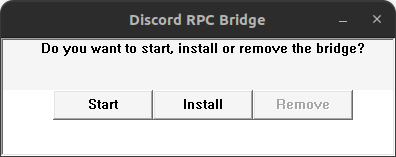
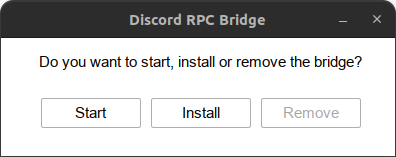
Enable Visual Styles

Changed region(s): [[0.0, 0.2293, 1.0, 0.9936], [0.0909, 0.5605, 0.9091, 0.7643], [0.0909, 0.7898, 0.9091, 0.8153]]

diff --git a/gui.c b/gui.c
@@ -36,8 +36,10 @@ VOID HandleStartButton(BOOL Silent)
 		RedrawWindow(item, NULL, NULL, RDW_ERASE | RDW_INVALIDATE | RDW_FRAME | RDW_ALLCHILDREN);
 
 		print("Killing %#x, %#lx and waiting for %#lx\n", hIn, hOut, hBridge);
-		TerminateThread(hIn, 0);
-		TerminateThread(hOut, 0);
+		if (hIn != NULL)
+			TerminateThread(hIn, 0);
+		if (hOut != NULL)
+			TerminateThread(hOut, 0);
 		WaitForSingleObject(hBridge, INFINITE);
 
 		EnableWindow(item, TRUE);
@@ -162,6 +164,12 @@ LRESULT CALLBACK WndProc(HWND hwnd, UINT msg, WPARAM wParam, LPARAM lParam)
 		PostQuitMessage(0);
 		ExitProcess(0);
 		break;
+	case WM_CTLCOLORSTATIC:
+	{
+		HDC hdcStatic = (HDC)wParam;
+		SetBkMode(hdcStatic, TRANSPARENT);
+		return (INT_PTR)(HBRUSH)GetStockObject(NULL_BRUSH);
+	}
 	default:
 		return DefWindowProc(hwnd, msg, wParam, lParam);
 	}
@@ -204,8 +212,8 @@ VOID SetButtonStyles(INT *btnStartStyle, INT *btnRemoveStyle, INT *btnInstallSty
 	CloseServiceHandle(hSCManager);
 }
 
-int WINAPI WinMain(HINSTANCE hInstance, HINSTANCE hPrevInstance,
-				   LPSTR lpCmdLine, int nCmdShow)
+int WINAPI __WinMain(HINSTANCE hInstance, HINSTANCE hPrevInstance,
+					 LPSTR lpCmdLine, int nCmdShow)
 {
 	INT btnStartStyle, btnRemoveStyle, btnInstallStyle;
 	SetButtonStyles(&btnStartStyle, &btnRemoveStyle, &btnInstallStyle);
@@ -228,7 +236,7 @@ int WINAPI WinMain(HINSTANCE hInstance, HINSTANCE hPrevInstance,
 
 	assert(RegisterClassEx(&wc));
 
-	hwnd = CreateWindowEx(WS_EX_CLIENTEDGE,
+	hwnd = CreateWindowEx(WS_EX_WINDOWEDGE,
 						  szClassName,
 						  "Discord RPC Bridge",
 						  WS_OVERLAPPEDWINDOW & ~WS_THICKFRAME,
@@ -237,25 +245,43 @@ int WINAPI WinMain(HINSTANCE hInstance, HINSTANCE hPrevInstance,
 						  400, 150,
 						  NULL, NULL, hInstance, NULL);
 
-	CreateWindow("STATIC", "Do you want to start, install or remove the bridge?",
-				 WS_CHILD | WS_VISIBLE | SS_CENTER,
-				 0, 0, 400, 50,
-				 hwnd, (HMENU)4, hInstance, NULL);
+	HICON hIcon = LoadIcon(hInstance, "IDI_ICON_128");
+	SendMessage(hwnd, WM_SETICON, ICON_BIG, (LPARAM)hIcon);
 
-	CreateWindow("BUTTON", "Start",
-				 btnStartStyle,
-				 50, 50, 100, 30,
-				 hwnd, (HMENU)1, hInstance, NULL);
+	HWND hLbl4 = CreateWindowEx(WS_EX_TRANSPARENT,
+								"STATIC", "Do you want to start, install or remove the bridge?",
+								WS_CHILD | WS_VISIBLE | SS_CENTER,
+								0, 15, 400, 25,
+								hwnd, (HMENU)4, hInstance, NULL);
 
-	CreateWindow("BUTTON", "Install",
-				 btnInstallStyle,
-				 150, 50, 100, 30,
-				 hwnd, (HMENU)2, hInstance, NULL);
+	HWND hbtn1 = CreateWindow("BUTTON", "Start",
+							  btnStartStyle,
+							  40, 60, 100, 30,
+							  hwnd, (HMENU)1, hInstance, NULL);
 
-	CreateWindow("BUTTON", "Remove",
-				 btnRemoveStyle,
-				 250, 50, 100, 30,
-				 hwnd, (HMENU)3, hInstance, NULL);
+	HWND hbtn2 = CreateWindow("BUTTON", "Install",
+							  btnInstallStyle,
+							  150, 60, 100, 30,
+							  hwnd, (HMENU)2, hInstance, NULL);
+
+	HWND hbtn3 = CreateWindow("BUTTON", "Remove",
+							  btnRemoveStyle,
+							  260, 60, 100, 30,
+							  hwnd, (HMENU)3, hInstance, NULL);
+
+	HDC hDC = GetDC(hwnd);
+	int nHeight = -MulDiv(11, GetDeviceCaps(hDC, LOGPIXELSY), 72);
+
+	HFONT hFont = CreateFont(nHeight, 0, 0, 0, FW_DONTCARE, FALSE, FALSE, FALSE, ANSI_CHARSET,
+							 OUT_TT_PRECIS, CLIP_DEFAULT_PRECIS, DEFAULT_QUALITY,
+							 DEFAULT_PITCH | FF_DONTCARE, TEXT("Segoe UI"));
+	ReleaseDC(hwnd, hDC);
+
+	SendMessage(hwnd, WM_SETFONT, hFont, TRUE);
+	SendMessage(hLbl4, WM_SETFONT, hFont, TRUE);
+	SendMessage(hbtn1, WM_SETFONT, hFont, TRUE);
+	SendMessage(hbtn2, WM_SETFONT, hFont, TRUE);
+	SendMessage(hbtn3, WM_SETFONT, hFont, TRUE);
 
 	ShowWindow(hwnd, nCmdShow);
 	UpdateWindow(hwnd);
@@ -272,5 +298,5 @@ int WINAPI WinMain(HINSTANCE hInstance, HINSTANCE hPrevInstance,
 void CreateGUI()
 {
 	ShowWindow(GetConsoleWindow(), SW_MINIMIZE);
-	ExitProcess(WinMain(GetModuleHandle(NULL), NULL, GetCommandLine(), SW_SHOWNORMAL));
+	ExitProcess(__WinMain(GetModuleHandle(NULL), NULL, GetCommandLine(), SW_SHOWNORMAL));
 }

diff --git a/main.c b/main.c
@@ -327,3 +327,8 @@ int main(int argc, char *argv[])
 	fclose(g_logFile);
 	ExitProcess(0);
 }
+
+int WINAPI WinMain(HINSTANCE hInstance, HINSTANCE hPrevInstance, LPSTR lpCmdLine, int nCmdShow)
+{
+	return main(__argc, __argv);
+}
